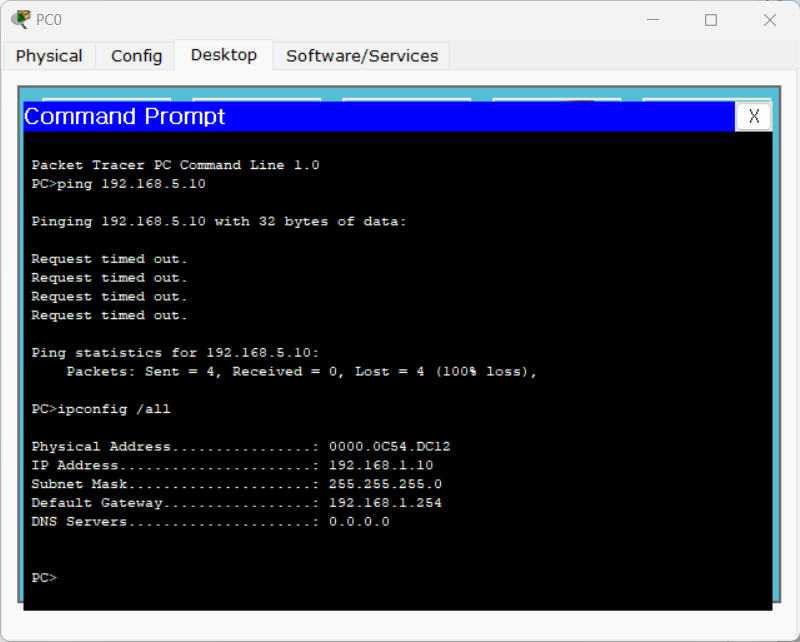
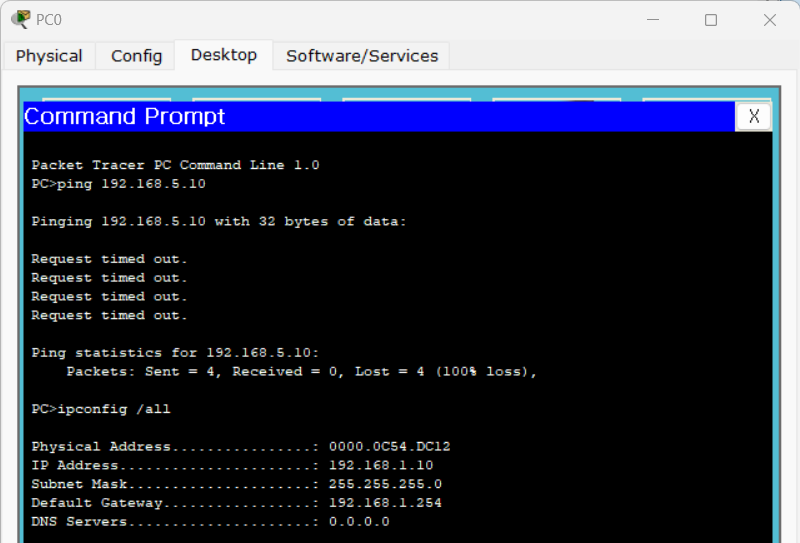
[lab] 07-15 : PBL03 01번 완성

diff --git a/project/PBL/PBL_03/01/report.md b/project/PBL/PBL_03/01/report.md
@@ -1,17 +1,11 @@
-<br/>
-
 # 네트워크 트래픽 전송 장애 분석 보고서
-
-<br/>
 
 ## 1. 서론
 ### 1.1. 과제 개요
 본 보고서는 "네트워크 트래픽 전송 장애 원인 분석"에 대한 문제 해결 과정을 담고 있다. 주어진 `Pro_01.pkt` 실습 파일을 기반으로, **PC_A (IP: 192.168.1.10)에서 PC_C (IP: 192.168.5.10)**로의 통신 장애 원인을 파악하고, 이에 대한 해결 방안을 제시하여 문제를 해결하는 것이 본 과제의 목표이다.
-
 ### 1.2. 문제 상황
 초기 `ping` 테스트 결과, PC_A에서 PC_C로의 네트워크 트래픽이 정상적으로 전송되지 않음을 확인했다. 이는 네트워크 경로상의 어딘가에 문제가 있음을 시사한다.
 
-<br/>
 
 ## 2. 문제 발견 과정
 PC_A와 PC_C 간의 통신 장애 원인을 체계적으로 파악하기 위해 다음 단계를 거쳐 네트워크 구성 요소들을 점검했다.
@@ -91,8 +85,6 @@ C    192.168.5.0/24 is directly connected, FastEthernet0/0
 
 - **3차 문제점** : `S 192.168.1.0/24 is directly connected, FastEthernet0/0` 정적 경로가 잘못 설정되어 있음을 발견했다. R2는 192.168.1.0/24 네트워크가 자신의 FastEthernet0/0 인터페이스에 직접 연결되어 있다고 인식하고 있었으나, 실제로는 192.168.3.0/24 네트워크를 통해 R1을 거쳐야 도달하는 원격 네트워크이다. 이는 R1의 문제점과 유사하게, 돌아오는 경로에서 패킷이 손실되는 원인이 된다.
 
-<br/>
-
 ## 3. 문제 해결 과정 및 해결 방안
 발견된 세 가지 주요 문제점들을 다음 단계에 따라 수정하여 통신 장애를 해결했다.
 
@@ -141,8 +133,6 @@ S    192.168.1.0/24 [1/0] via 192.168.3.1
 ![img](09_route_table_router1_modify.png)
 
 ![img](09_route_table_router1_modified.png)
-
-<br/>
 
 ## 4. 해결 결과 및 결론
 모든 문제점을 해결한 후, PC_A에서 PC_C로의 ping 명령을 다시 시도하여 통신 성공 여부를 확인했다.
